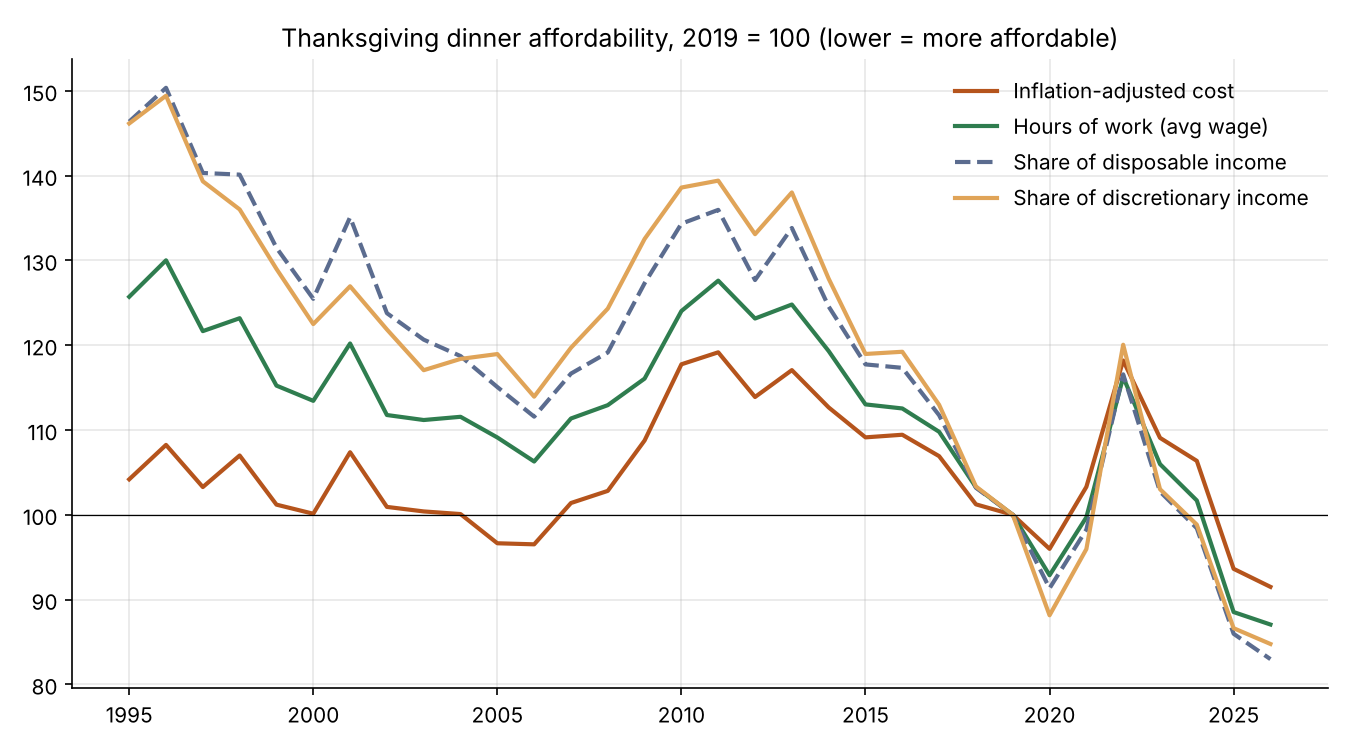
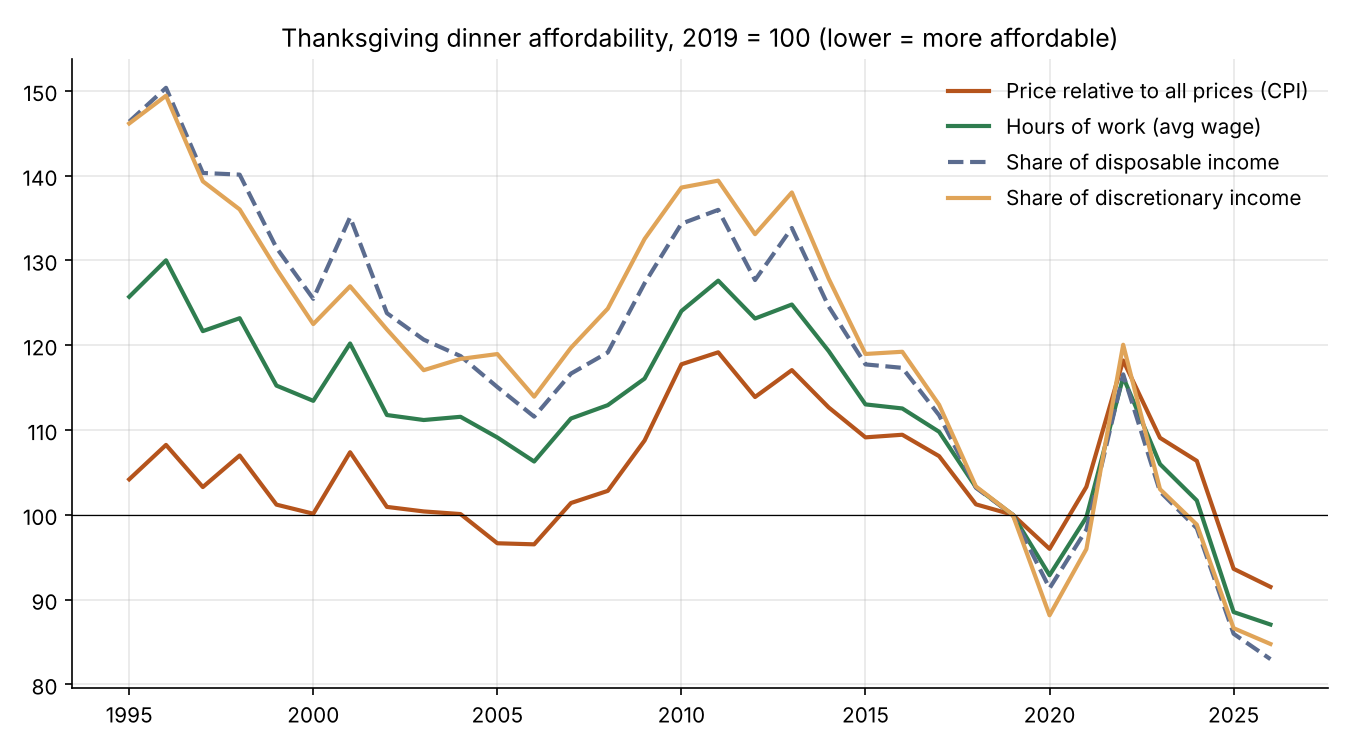
Reword inflation-adjusted comparisons as relative prices
The dinner's price compared with CPI shows whether it rose faster or
slower than other prices, not whether it is affordable. README now says
this explicitly, notes the national-accounts caveat, and chart labels
say "relative to overall prices" instead of "inflation-adjusted".

Claude-Session: https://claude.ai/code/session_015UrztArHpAPPRd1ooHHwA1

Changed region(s): [[0.7467, 0.092, 0.9644, 0.276]]

diff --git a/build_index.py b/build_index.py
@@ -153,18 +153,18 @@ contrib.round(2).to_csv(OUT / "yoy_contributions.csv")
 plt.rcParams.update({"figure.dpi": 150, "axes.spines.top": False, "axes.spines.right": False,
                      "axes.grid": True, "grid.alpha": 0.3, "font.size": 10})
 
-# 1. Nominal vs real cost, with the Farm Bureau benchmark
+# 1. Nominal cost and cost relative to overall prices, with the Farm Bureau benchmark
 fig, ax = plt.subplots(figsize=(9, 5))
 ax.plot(total.index, total, color="#b5541c", lw=2.2, label="Our basket (nominal)")
 ax.plot(real_total.index, real_total, color="#5b6c8f", lw=2.2, ls="--",
-        label=f"Our basket (in {latest} dollars)")
+        label=f"Our basket, relative to overall prices ({latest} dollars)")
 ax.plot(total_chicken.loc[2019:].index, total_chicken.loc[2019:], color="#b5541c", lw=1, ls=":",
         label="Our basket, turkey proxied by chicken")
 ax.plot(afbf.index, afbf, "o-", color="#2f7d4f", ms=4, lw=1.4, label="Farm Bureau survey (nominal)")
 ax.axvspan(2019.5, latest + 0.5, color="grey", alpha=0.08)
 ax.text(2019.7, ax.get_ylim()[0] + 1, "turkey price from Farm Bureau survey", fontsize=8, color="grey")
 ax.set(title="Cost of a Thanksgiving dinner for 10 (October prices)", ylabel="$", xlabel="")
-ax.legend(frameon=False)
+ax.legend(frameon=False, loc="center left", bbox_to_anchor=(0.0, 0.46), fontsize=9)
 fig.tight_layout(); fig.savefig(OUT / "1_dinner_cost.png"); plt.close(fig)
 
 # 2. Indexes

diff --git a/affordability.py b/affordability.py
@@ -78,7 +78,7 @@ plt.rcParams.update({"figure.dpi": 150, "axes.spines.top": False, "axes.spines.r
 cpi = summary["cpi_all_items_2019=100"]
 real = dinner / cpi * 100
 fig, ax = plt.subplots(figsize=(9, 5))
-for s, lab, c, ls in [(real, "Inflation-adjusted cost", "#b5541c", "-"),
+for s, lab, c, ls in [(real, "Price relative to all prices (CPI)", "#b5541c", "-"),
                       (out.hours_of_work, "Hours of work (avg wage)", "#2f7d4f", "-"),
                       (out.per_guest_pct_of_daily_dpi, "Share of disposable income", "#5b6c8f", "--"),
                       (out.per_guest_pct_of_daily_discretionary, "Share of discretionary income", "#e0a458", "-")]:

diff --git a/README.md b/README.md
@@ -18,9 +18,12 @@ Bureau's annual survey and with CPI.
   2009 and now buys 64% of what it did then. The dinner takes 7.7 hours of minimum-wage
   work in 2026, vs 6.4 in 2019, the 4th-highest in 32 years (3rd-highest if turkey is
   estimated from chicken prices).
-- **Thanksgiving dinner itself is not the driver.** Measured against income, it is at or
-  near its most affordable since 1995 for almost every group, including the lowest fifth,
-  mainly because turkey is cheaper than in 2022-24. Workers at the 10th percentile of
+- **Thanksgiving dinner itself is not the driver.** The dinner costs 20% more than in
+  2019, less than the 31% rise in prices overall, because essentials like rent rose
+  faster. That comparison says the dinner rose less than other prices, not that it is
+  cheap. Measured against income, it is at or near its most affordable since 1995 for
+  almost every group, including the lowest fifth, mainly because turkey is cheaper than
+  in 2022-24. Workers at the 10th percentile of
   full-time pay have seen wages outpace prices since 2021 (+30.5% vs +28.5%).
 - **Not visible in annual averages:** in November 2025 the government shutdown delayed or
   cut SNAP benefits for millions of households in the weeks before Thanksgiving.
@@ -34,6 +37,13 @@ Run it with:
     python deep_dive.py       # run after build_index.py
 
 Outputs go to `output/`: summary tables (CSV), three charts, and a text report.
+
+## Comparing with other prices vs. with income
+Comparing the dinner's price with overall prices (CPI) shows whether it rose faster or
+slower than everything else. It is not circular: removing food from CPI changes the result
+by under a percentage point. But it does not measure affordability, because other prices
+rising faster (rent, insurance) is itself the squeeze. Affordability is measured against
+income: hours of work, share of income, and income left after essentials.
 
 ## Data notes
 - **Turkey:** BLS stopped publishing whole frozen turkey prices in Feb 2020. From 2020 on,
@@ -52,8 +62,11 @@ Discretionary income is disposable income minus spending on housing and utilitie
 home, health care, and gasoline and other energy goods (BEA, Q3 of each year).
 
 Finding: by every one of these measures, 2025-26 is the most affordable Thanksgiving dinner
-since 1995, even though it costs about 20% more at the register than in 2019. Spending on
-those essentials has stayed at about 40-41% of disposable income since 2015.
+relative to income since 1995, even though it costs about 20% more at the register than in
+2019. In these national accounts, essentials stay at about 40-41% of disposable income
+since 2015, but that total includes health care paid by employers and government. The
+household-level results below show essentials taking a record share of what households pay
+themselves.
 
 ## By income quintile (`by_income.py`)
 Uses the BLS Consumer Expenditure Survey by quintile of pre-tax income (annual, 1995-2025).
